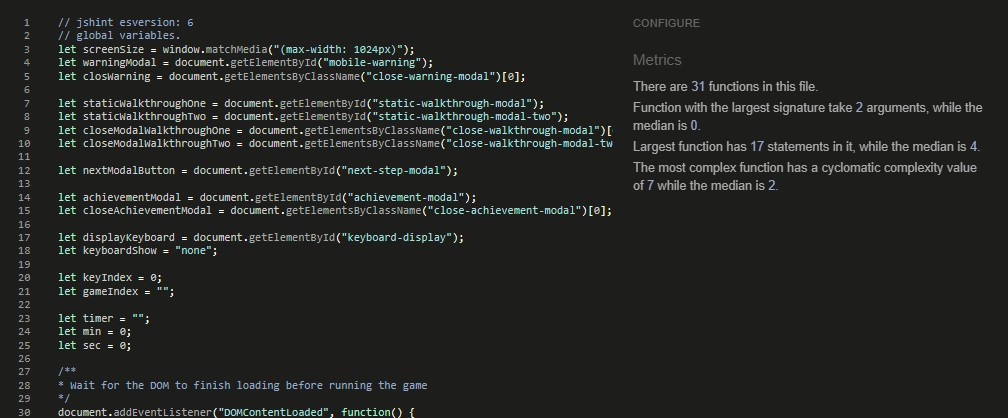
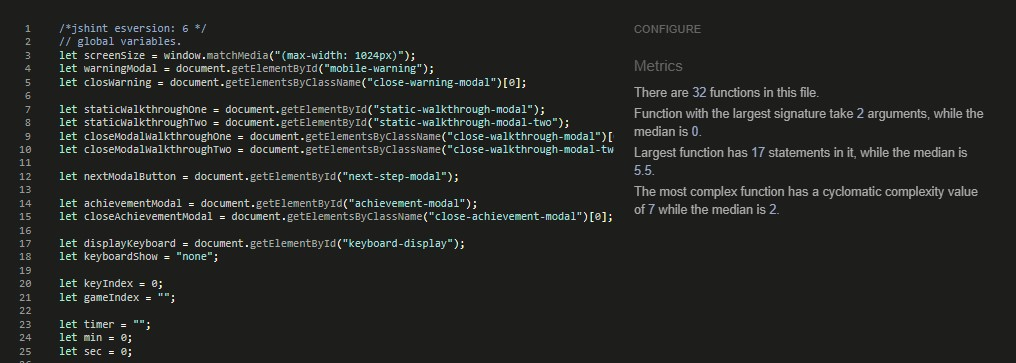
Readme.md updated, spelling changes, JSHint image for readme updated

diff --git a/assets/js/script.js b/assets/js/script.js
@@ -37,7 +37,7 @@ document.addEventListener("DOMContentLoaded", function() {
     document.addEventListener("keypress", runGame);
 
     // Checks the length of the game and opens modal when last key has been pressed
-    document.addEventListener("keypress", checkGameLength)
+    document.addEventListener("keypress", checkGameLength);
 
     // Starts game timer, timer is set to true.
     document.addEventListener("keydown", startTimer);
@@ -235,6 +235,7 @@ function incrementWrongScore(){
 }
 
 // updates score to index.html id for each value.
+// guidance from mentor to simplify code, by introducing scoreNodeId and logic
 function updateScore(scoreNodeId, isCorrect){
     let oldScore = parseInt(document.getElementById(scoreNodeId).innerText);
 

diff --git a/README.md b/README.md
@@ -162,7 +162,7 @@ The game offers three difficulty levels: easy, medium, and hard. Each level adds
 The site is fully responsive, BUT... <br>
 The primary feature of this game is touch typing, which is taught with hand placement on an external keyboard. <br>
 
-The opening of the onscreen keyboards is a challenge for mobile and tablet use cases because only input text components allow the onscreen keyboard to be displayed<br>
+The opening of the onscreen keyboard is a challenge for mobile and tablet use cases as only input text components allow the onscreen keyboard to be displayed<br>
 
 When evaluating the mobile and tablet use cases, it became evident that the game was designed to teach touch typing techniques and improve keyboard skills.<br>
 
@@ -177,9 +177,9 @@ A javascript media query has been included for screen sizes of 1024px and smalle
 | Action | Expected Behavior | Result |
 | :---         |     :---:      |          ---: |
 | 1. Modal Displays | Modal walkthrough page one is displayed | Pass |
-| 2. Window Click | Modal closes and game screen is displayed, the default game set to "Easy" with corresponding characters added to game area | Pass |
+| 2. Window Click | Modal closes and game screen is displayed, the default game is set to "Easy" with corresponding characters added to game area | Pass |
 | 3. Close Icon Click | Modal closes and game screen is displayed, the default game is set to "Easy" with corresponding characters added to game area | Pass |
-| 4. Next Button Click | Modal walkthrough page one closes and modal page two is displayed | Pass |
+| 4. Next Button Click | Modal walkthrough page one closes and walkthrough modal page two is displayed | Pass |
 
 2. Walkthrough Modal Page 2
 
@@ -196,28 +196,28 @@ A javascript media query has been included for screen sizes of 1024px and smalle
 
 | Action | Expected Behavior | Result |
 | :---         |     :---:      |          ---: |
-| 1. Correct Characters displayed | The correct characters are added to the Game Area when difficulty levels are selected or changed | Pass |
+| 1. Correct Characters displayed | The correct characters are added to the Game Area when difficulty level is selected or changed | Pass |
 | 2. Key Press event | When a keystroke occurs the game checks the character displayed in the Game Area to the value of the keystroke | Pass |
 | 3. Timer Starts | When the first keystroke event takes place the timer starts | Pass |
-| 4. Correct Key pressed | If the value of the Keystroke is equal to the value of the corresponding character in the game area, the character in the game area is highlight in green and the correct score is incremented | Pass |
-| 5. Incorrect Key pressed | If the value of the Key pressed is not equal to the value of the corresponding character in the game area, the character in the game area is highlight in red and the incorrect score is incremented | Pass |
-| 6. Current Character indicator | After each Key Press the next character to be pressed is underlined in blue | Pass |
+| 4. Correct Key pressed | If the value of the keystroke is equal to the value of the corresponding character in the game area, the character in the game area is highlight in green and the correct score is incremented | Pass |
+| 5. Incorrect Key pressed | If the value of the keystroke is not equal to the value of the corresponding character in the game area, the character in the game area is highlight in red and the incorrect score is incremented | Pass |
+| 6. Current Character indicator | After each keystroke the next character to be pressed is underlined in blue | Pass |
 | 7. Difficulty Buttons | Clicking on a difficulty level changes the characters that are displayed in the game area | Pass |
 | 9. Restart Button | When the restart button is clicked the game area, scores and timer is reset with new characters from current difficulty loaded into the game area | Pass |
-| 10. Game Complete | When the last character from game area has been pressed the achievement modal is displayed | Pass |
-| 11. Timer stops | When the last keystroke from game area has taken place the timer is stopped | Pass |
+| 10. Game Complete | When the last character in the game area has been pressed the achievement modal is displayed | Pass |
+| 11. Timer stops | When the last character in the game area has been pressed the timer is stopped | Pass |
 
 4. Achievement Modal
 
 | Action | Expected Behavior | Result |
 | :---         |     :---:      |          ---: |
 | 1. Correct number of stars displayed | If correct answers > 42 three stars are displayed, if correct answers >= 35 two stars are displayed, if correct answers >= 25 one star is displayed, if correct answer <= 24 no stars are displayed | Pass |
-| 2. Correct answers displayed | The right number of correct and incorrect answers are displayed in achievement modal | Pass |
-| 3. Calculated characters per minute | The correct calculated characters per minute is displayed | Pass |
-| 4. Retry Button | Loads a new game for currently selected difficulty | Pass |
-| 5. Change Difficulty Buttons | If a new difficulty is selected the chosen difficulty's game characters will load into the game area and the selected game difficulty button will become active on the home screen | Pass |
-| 6. Window Click | Clicking on the window outside the achievement modal will close the modal and load a new game with current game difficulty | Pass |
-| 7. Close Icon | Clicking on the close icon will close the achievement modal and load a new game with current game difficulty | Pass |
+| 2. Correct Scores | The right number of correct and incorrect answers are displayed in achievement modal | Pass |
+| 3. Calculated characters per minute | The correct calculations for characters per minute are displayed | Pass |
+| 4. Retry Button | Loads a new game with currently selected difficulty | Pass |
+| 5. Change Difficulty Buttons | If a new difficulty is selected the chosen difficulty's game characters will load into the game area and the selected game difficulty button will become active on the game screen | Pass |
+| 6. Window Click | Clicking on the window outside the achievement modal will close the modal and load a new game with current game difficulty level | Pass |
+| 7. Close Icon | Clicking on the close icon will close the achievement modal and load a new game with current game difficulty level | Pass |
 
 
 ### Validator Testing 
@@ -287,9 +287,11 @@ By forking the GitHub Repository we make a copy of the original repository on ou
 
 - Code
     - Function code to increment scores, basic structure take from CI Love Mathematics projects.
+    - Simplify increment score JavaScript function with scoreNodeID and logic, thanks to my mentor.
     - Basic Javascript Modal tutorial used for modals [W3S](https://www.w3schools.com/howto/howto_css_modals.asp)
     - Stopwatch function code, snippets and logic taken from [GeeksforGeeks](https://www.geeksforgeeks.org/how-to-create-stopwatch-using-html-css-and-javascript/)
     - Box shadow CSS was taken from https://getcssscan.com/css-box-shadow-examples.
+    - Method to create cleaner javaScript code, thanks to my mentor for assisting me 
 
 ### Media
 
